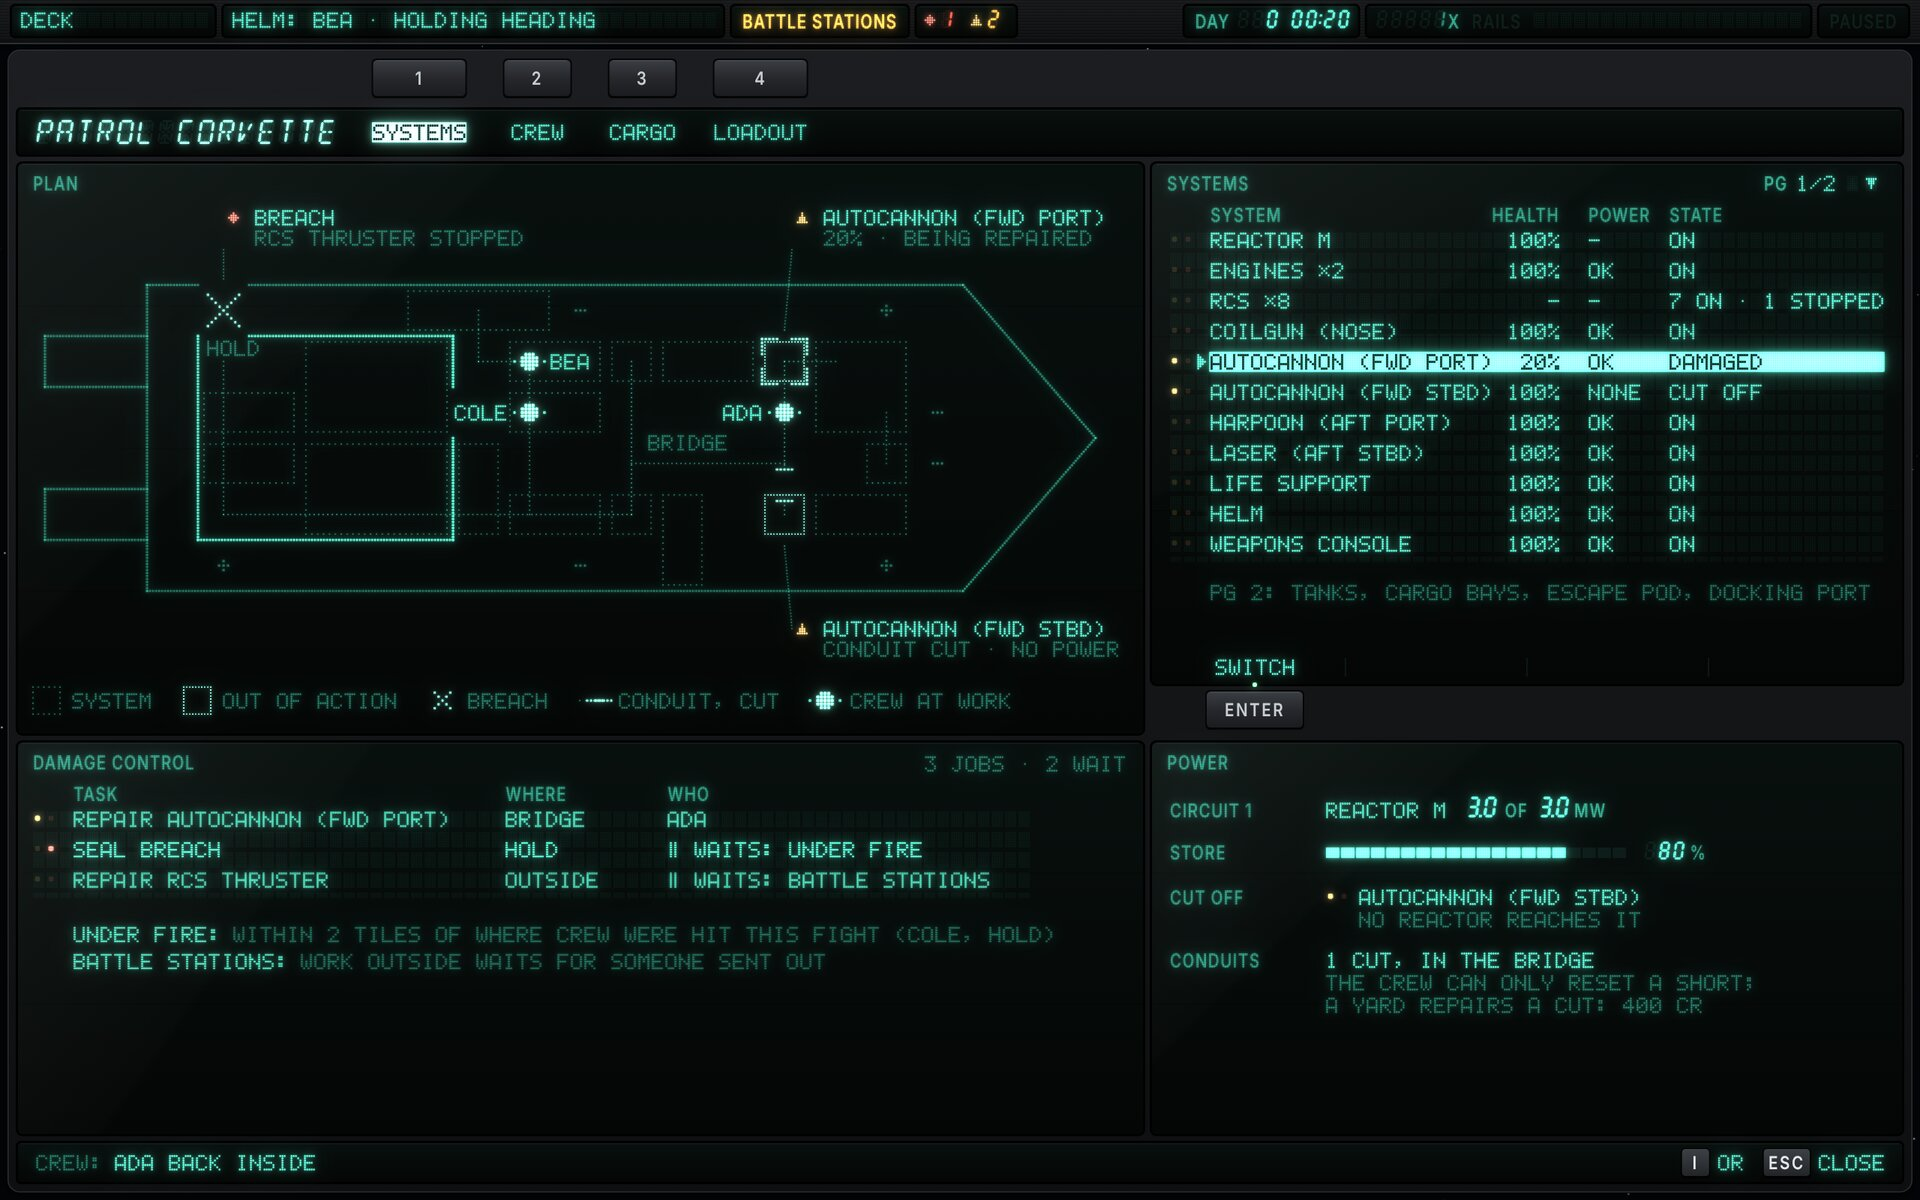
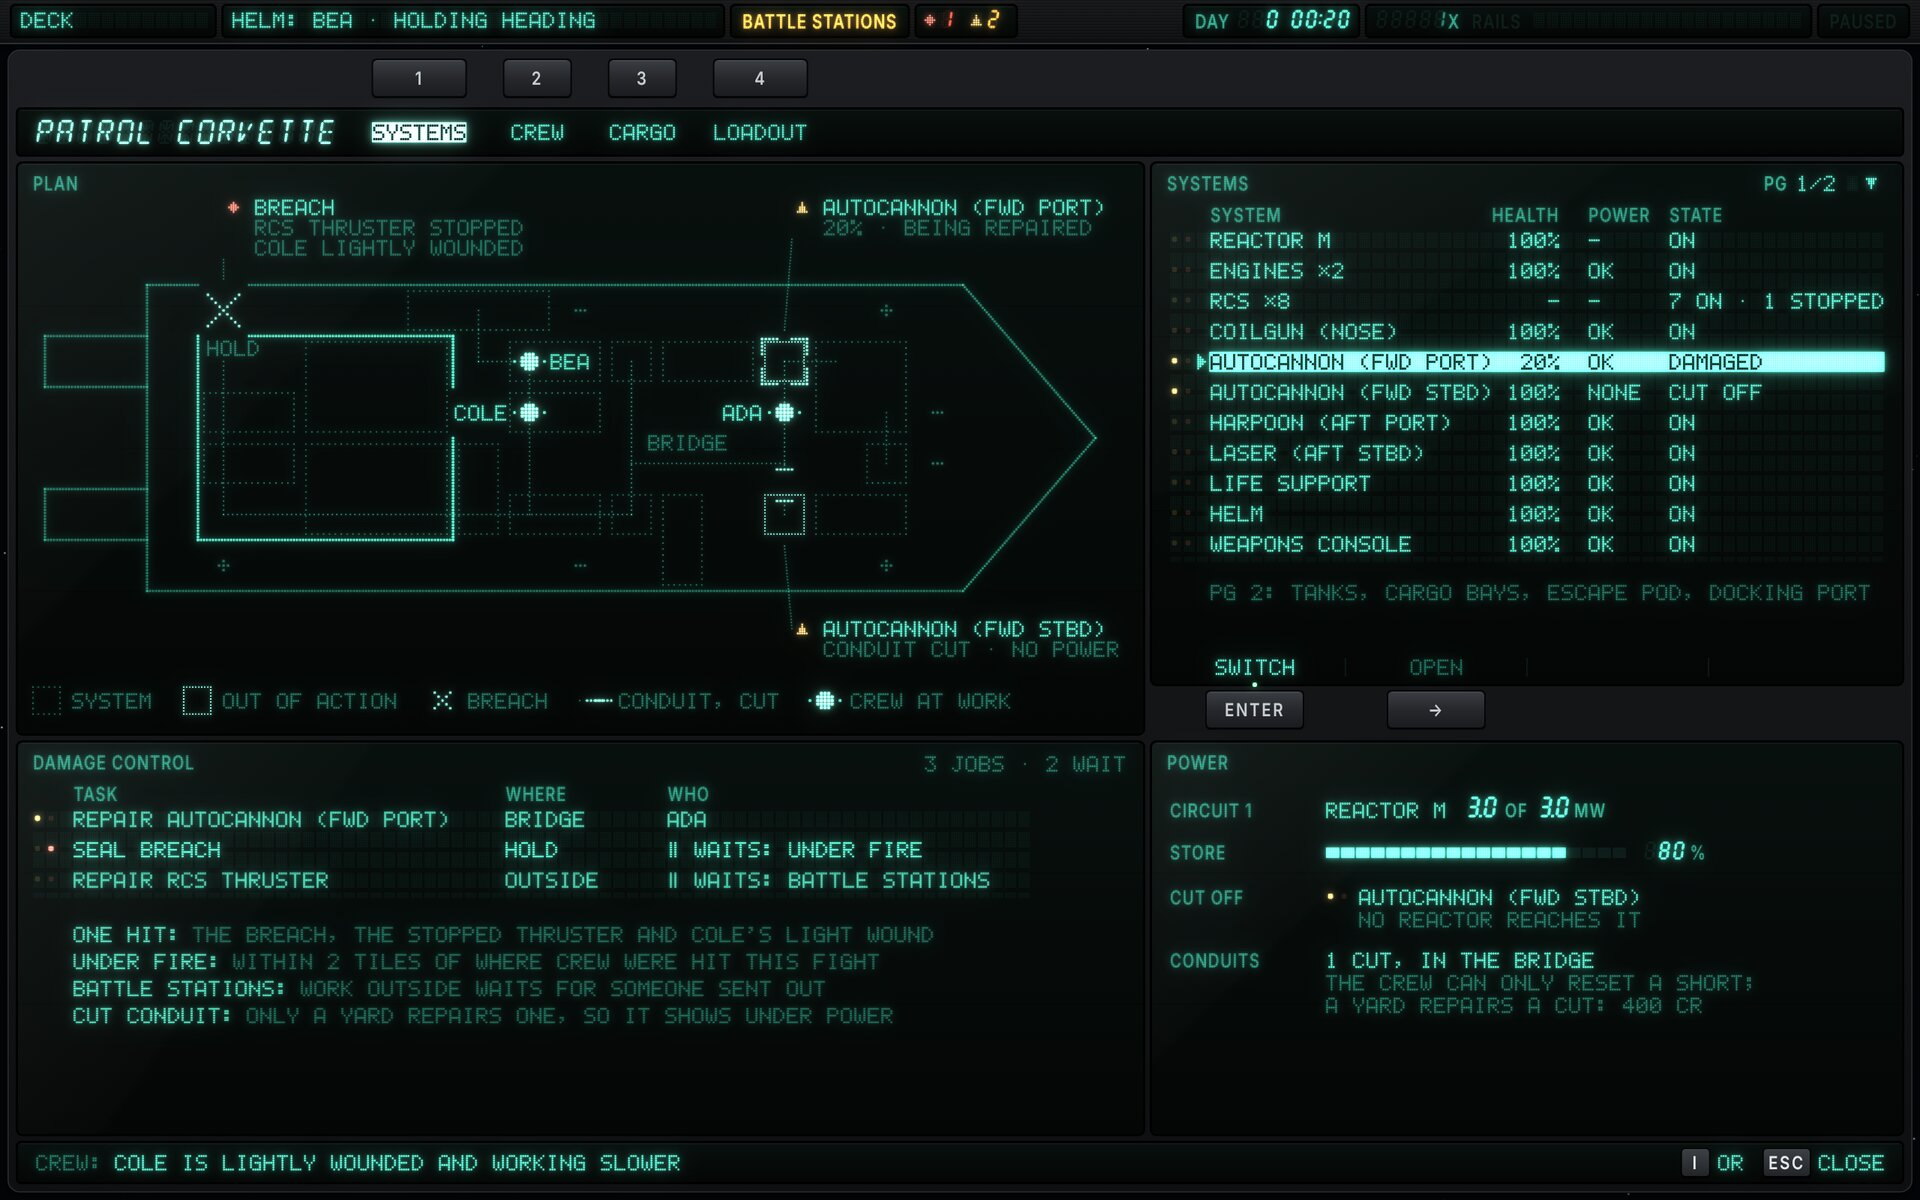
FILAMENT round 12: the ship's systems tab for context version 15
Version 15 of the context spec took both round-11 notes, so M2 is
redrawn for them:

- The stopped RCS quad, the HOLD's breach and Cole's light wound are
  one hit on one hull tile: the breach's callout names all three, and
  the damage control board's notes give the hit, the two waits and why
  a cut conduit shows under Power.
- Every system takes the switch: SWITCH on the focused row (its LED
  green while the system is on, guarded on the reactor's row), and
  OPEN beside it to list a group's members, dim on a single gun's row.
- The feed is the game's wound notice (CrewMedical).

Checked against the game: RCS blocks belong to the grid, not the
systems, and a sealed breach leaves its quad stopped until the repair
outside frames the tile (RcsThruster.works). Context x FILAMENT has
converged.

Claude-Session: https://claude.ai/code/session_019poqwVjy4cV7sgFctDBjVK

diff --git a/documentation/ui-overhaul/vfd/src/context.js b/documentation/ui-overhaul/vfd/src/context.js
@@ -930,7 +930,7 @@
     const f = modeFrame(S, 12, 40, 1256, 748, {
       title: 'PATROL CORVETTE',
       tabs: [{ t: 'SYSTEMS', k: '1', active: true }, { t: 'CREW', k: '2' }, { t: 'CARGO', k: '3' }, { t: 'LOADOUT', k: '4' }],
-      feed: ['CREW', 'ADA BACK INSIDE'], close: 'I',
+      feed: ['CREW', 'COLE IS LIGHTLY WOUNDED AND WORKING SLOWER'], close: 'I',
     });
     const top = f.y, bot = f.bottom, lw = 750, rx = 12 + lw + 6, rw = 1268 - rx, mid = top + 380;
 
@@ -971,8 +971,8 @@
       lines.forEach((ln, i) => T(S, x + 2 * CELL, y + i * 13.5, ln, { level: i ? 'dim' : 'norm' }));
       S.dotLine(from[0], from[1], x - 3, below ? y + 5 : y + (lines.length - 1) * 13.5 + 13, { size: 1, step: 2, level: 'dim' });
     };
-    call(X(3.5) + 3, top + 31, 'warning', ['BREACH', 'RCS THRUSTER STOPPED'], [X(3.5), Y(0) - 4]);
-    call(X(14.5) + 8, top + 31, 'caution', ['AUTOCANNON (FWD PORT)', '20% · BEING REPAIRED'], [X(14.5), Y(1) - 4]);
+    call(X(3.5) + 3, top + 24, 'warning', ['BREACH', 'RCS THRUSTER STOPPED', 'COLE LIGHTLY WOUNDED'], [X(3.5), Y(0) - 4]);
+    call(X(14.5) + 8, top + 24, 'caution', ['AUTOCANNON (FWD PORT)', '20% · BEING REPAIRED'], [X(14.5), Y(1) - 4]);
     call(X(14.5) + 8, Y(6) + 20, 'caution', ['AUTOCANNON (FWD STBD)', 'CONDUIT CUT · NO POWER'], [X(14.5), Y(5) + 4], true);
     // the plan's key, printed along the pane's foot
     let kx = 22;
@@ -984,7 +984,10 @@
     key((x, y) => { S.dotLine(x, y, x + 8, y, fine); cap(x + 10, y); cap(x + 16, y); }, 'CONDUIT, CUT');
     key((x, y) => person(S, x + 9, y, { working: true }), 'CREW AT WORK');
 
-    // the systems, grouped by type, a dash where the game has no such value; the switch acts on the focus
+    // the systems, grouped by type, a dash where the game has no such value. Every system has its switch, and
+    // the keys act on the focused row: SWITCH, its LED green while the system is on (on the reactor's row the
+    // first press sets it blinking amber and the second switches); OPEN lists a group's members under its row,
+    // each with its own switch, so on a single system's row it is dim. RCS blocks are not systems: no switch.
     const sh = mid - top - KH - 9, s0 = rx + 12;
     pane(S, rx, top, rw, sh, 'SYSTEMS');
     SC.pager(S, rx + rw - 12 - 80, top + 8, 1, 2);
@@ -1001,7 +1004,7 @@
       sg.row(i * 1.5, SC.cols([[n, 21], ['', 1], [h, 4, 'r'], ['', 2], [pw, 4], ['', 2], [st, 16]]), { c: 2, focus, cursor: focus });
     });
     T(S, sg.cx(3), top + 46 + 11 * 20.25 + 12, 'PG 2: TANKS, CARGO BAYS, ESCAPE POD, DOCKING PORT', { level: 'dim' });
-    SC.keyStrip(S, rx + 8, top + sh + 5, rw - 16, [{ t: 'SWITCH', k: 'ENTER', led: 'green', ledOn: true }], { slots: 4, labelY: top + sh - 7 * P - 6 });
+    SC.keyStrip(S, rx + 8, top + sh + 5, rw - 16, [{ t: 'SWITCH', k: 'ENTER', led: 'green', ledOn: true }, { t: 'OPEN', k: '→', dim: true }], { slots: 4, labelY: top + sh - 7 * P - 6 });
 
     // damage control: the crew's jobs as the game posts them, and who has each or why it waits
     const dy0 = mid + 6, dh = bot - dy0;
@@ -1015,10 +1018,12 @@
       dg.text(3, i * 1.5, SC.cols([[task, 30], ['', 2], [where, 10], ['', 2], [who, 24]]));
     });
     let ny = dy0 + 46 + 3 * 20.25 + 16;
-    for (const [term, why] of [['UNDER FIRE:', 'WITHIN 2 TILES OF WHERE CREW WERE HIT THIS FIGHT (COLE, HOLD)'],
-      ['BATTLE STATIONS:', 'WORK OUTSIDE WAITS FOR SOMEONE SENT OUT']]) {
+    for (const [term, why] of [['ONE HIT:', "THE BREACH, THE STOPPED THRUSTER AND COLE'S LIGHT WOUND"],
+      ['UNDER FIRE:', 'WITHIN 2 TILES OF WHERE CREW WERE HIT THIS FIGHT'],
+      ['BATTLE STATIONS:', 'WORK OUTSIDE WAITS FOR SOMEONE SENT OUT'],
+      ['CUT CONDUIT:', 'ONLY A YARD REPAIRS ONE, SO IT SHOWS UNDER POWER']]) {
       const tw = T(S, dg.cx(3), ny, term);
-      T(S, dg.cx(3) + tw + CELL, ny, why, { level: 'dim' });
+      K.fits(dg.cx(3) + tw + CELL + T(S, dg.cx(3) + tw + CELL, ny, why, { level: 'dim' }), 12 + lw - 12, 'M2 note');
       ny += 18;
     }
 

diff --git a/documentation/ui-overhaul/variations/vfd-context.md b/documentation/ui-overhaul/variations/vfd-context.md
@@ -1,6 +1,6 @@
 # FILAMENT × Context-driven
 
-The context-driven functional design (`functional-context.md`, version 14) built in the FILAMENT style ([`style-vfd.md`](../style-vfd.md)). The spec decides what each widget shows, where and when; this page records how FILAMENT builds it, what the style changes beyond the look, and the critique of each round.
+The context-driven functional design (`functional-context.md`, version 15) built in the FILAMENT style ([`style-vfd.md`](../style-vfd.md)). The spec decides what each widget shows, where and when; this page records how FILAMENT builds it, what the style changes beyond the look, and the critique of each round.
 
 Mockups are drawn by [`vfd/src/context.js`](../vfd/src/context.js) over the game's hull art and a real deck capture; `vfd/src/export.sh` re-renders them.
 
@@ -32,7 +32,7 @@ The full-screen modes (spec section 10) are built in the mode frame of the guide
 
 ![Station](vfd/context-station.jpg)
 
-**11.11 Ship, systems (M2).** Battle stations aboard the patrol corvette, Systems showing. The plan draws every system where the corvette's chassis mounts it, with its conduits, RCS blocks and crew. One hit wrecked the hull tile under the hold's port-aft RCS quad: a wrecked hull tile is a breach, and a block stops while its tile is down, so the breach, the stopped thruster and Cole's light wound are the one hit. The FWD PORT autocannon is out of action at 20% with Ada repairing it, and the FWD STBD one is cut off, its conduit broken in its tile. What is wrong is called out with its severity glyph, the gun in the list's focus is bracketed, and the plan's key runs along its foot. The list pages at eleven rows with the guns' amber pips and a dash where the game has no value; one `SWITCH` key acts on the focused row, its LED lit while that system is on. Damage control lists the three jobs with who has each or why it waits (`‖`), and says what each wait means; Power gives the reactor against its rating, the store, what no reactor reaches and the yard's price for the cut.
+**11.11 Ship, systems (M2).** Battle stations aboard the patrol corvette, Systems showing. The plan draws every system where the corvette's chassis mounts it, with its conduits, RCS blocks and crew. One hit wrecked the hull tile under the hold's port-aft RCS quad: a wrecked hull tile is a breach, and a block stops while its tile is down, so the breach, the stopped thruster and Cole's light wound are the one hit, and the breach's callout names all three. The FWD PORT autocannon is out of action at 20% with Ada repairing it, and the FWD STBD one is cut off, its conduit broken in its tile. What is wrong is called out with its severity glyph, the gun in the list's focus is bracketed, and the plan's key runs along its foot. The list pages at eleven rows with the guns' amber pips and a dash where the game has no value. Every system has its switch, and the keys act on the focused row: `SWITCH` (Enter), its LED green while that system is on, and `OPEN` (→), which lists a group's members under its row, each with its own switch, so on a single gun's row it is dim. On the reactor's row `SWITCH` is guarded as 7.7's keys are: the first press sets its LED blinking amber and the second switches. The RCS blocks are not systems, so on their row `SWITCH` is dim. Damage control lists the three jobs with who has each or why it waits (`‖`), and its notes say what the hit did, what each wait means and why the cut conduit is not on the board; Power gives the reactor against its rating, the store, what no reactor reaches and the yard's price for the cut. The feed is the game's wound notice.
 
 ![Ship, systems](vfd/context-ship.jpg)
 
@@ -152,6 +152,10 @@ Version 14 took both round-5 notes. M1 draws the Moon twice, as the game does, t
 
 The guide gained the ship's plan (18.3) and a wider fourteen-segment field for a screen's title, up to 16 cells (5.2): `PATROL CORVETTE` is 15.
 
+## Round 10
+
+Version 15 took both round-6 notes: 11.11's stopped RCS quad, the HOLD's breach and Cole's light wound are one hit on one hull tile, and every system takes the switch, a group's row switching the group and the reactor's guarded. M2 is redrawn for them: the breach's callout names Cole's wound; the board's notes give the hit, the two waits and why a cut conduit shows under Power; the feed is the game's wound notice (`CrewMedical`); and `OPEN` sits beside `SWITCH` for a group's members. Checking version 15 against the game found nothing more: the RCS blocks belong to the ship's grid, not its systems (`ShipGridComponent.rcsThrusters`), and sealing the breach leaves the quad stopped until the repair outside frames its tile again, as 11.11 now says. Converged.
+
 ## Functional notes sent to the context designer
 
 Round 1 (all answered by version 3): keep P2 lit under X3, decoys have no stock, shields as a share, on-screen hazard tags for D3, states as one word.
@@ -178,7 +182,7 @@ Round 5 (after version 13; both taken in version 14):
 1. **M1's ghost.** The game's map draws the Moon where it is now and, where the leg meets its sphere, a ghost: the Moon's outline and sphere where it will be by then (`MapPainter.ghost`, the Centre key's encounter). At T-3.3 d that is about 43° further along its orbit, and the Nav's brackets stay on Shackleton Ice where it is now. Wireframe 09 draws one Moon, at the meeting, and FILAMENT follows it. Suggest the wireframe show both, or the text say which one the plot shows.
 2. **M1's Nav card.** 10.1's table gives it a closest approach; for a Nav around another body, wireframe 09 gives the body and the arrival, as H2 does since version 10. Suggest the table say so.
 
-Round 6 (after version 14):
+Round 6 (after version 14; both taken in version 15):
 
 1. **The stopped RCS block is on the breach.** The game stops a block only while the hull tile it is bolted to is wrecked (`RcsThruster.fieldRepairable`), and a wrecked hull tile beside the interior is a breach (`Tile.isHullBreach`, the `SealBreachTask` the scan posts). Every block on the corvette stands on such a tile, so 11.11's one stopped block puts a breach on its tile, and with the only breach in the HOLD, the block is one of the hold's two aft quads. FILAMENT draws the port one: one hit made the breach, stopped the quad and wounded Cole, and its two jobs are the seal from inside and the thruster's repair outside. Suggest 11.11's text say so, or the sample's breach move to where it can't stop a block.
 2. **Which systems have a switch.** Wireframe 11 gives `[off]` to the reactor and the coilgun only; the game lets every system be switched off (`SubsystemComponent.switchedOn`, `ConsoleWindow`'s switch). FILAMENT has one `SWITCH` key on the focused row, its LED lit while that system is on. Suggest 10.2 say which systems take the switch: all, as the game has it, or a subset and why.

diff --git a/documentation/ui-overhaul/variations/vfd-rounds.md b/documentation/ui-overhaul/variations/vfd-rounds.md
@@ -5,10 +5,14 @@ Each round, the three FILAMENT variations ([stations](vfd-stations.md), [context
 | Variation | Spec version used | Status after the latest round |
 |---|---|---|
 | Ship stations | `functional-stations.md` round 14 | Converged in round 7; round 10 adds the panels: the Plot, the station link, the slate |
-| Context-driven | `functional-context.md` version 14 | Reopened in round 10: the HUD screens redrawn for versions 10 to 13 and the modes drawn; round 11 draws the map's ghost and M2's systems tab, two notes out |
+| Context-driven | `functional-context.md` version 15 | Converged in round 12: the HUD screens redrawn for versions 10 to 13, the four modes drawn, the map's ghost and M2's systems tab as version 15 has them |
 | Task-driven | `functional-task.md` round 9 | Converged in round 9; round 10 adds the map, the station terminal, the ship's book and boarding |
 
 A variation that has converged reopens when its spec changes something visible, or a designer's answer to a note does.
+
+## Round 12
+
+**Context** (version 15). The designer took both of round 11's notes: the stopped RCS quad, the HOLD's breach and Cole's light wound are one hit, and every system takes the switch, a group's row switching the group and the reactor's pressed twice. M2 is redrawn: the breach's callout and the board's notes tell the hit, the feed is the game's wound notice, and `OPEN` sits beside `SWITCH` to list a group's members. Nothing more turned up against the game. Converged.
 
 ## Round 11
 
